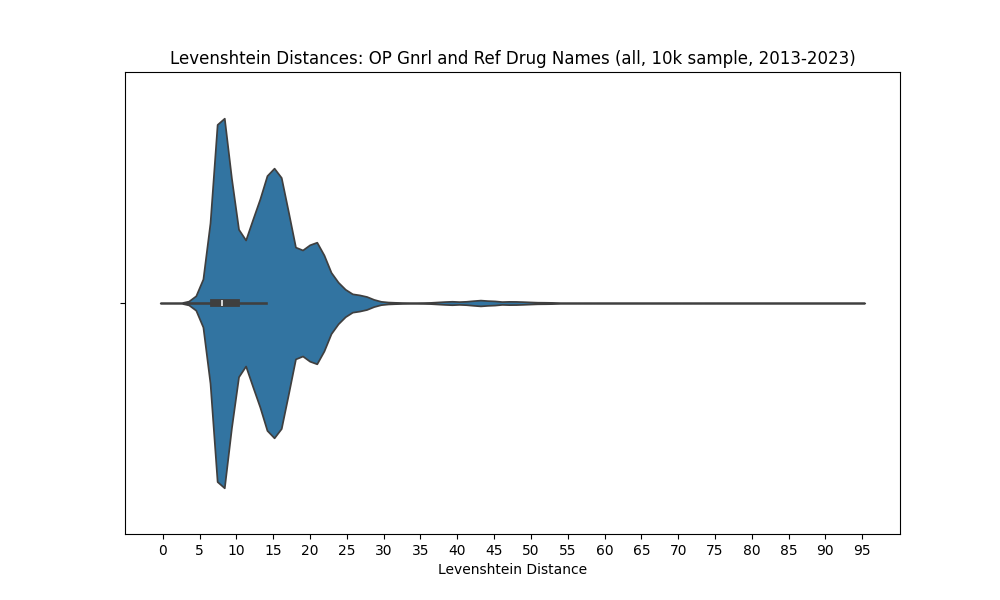
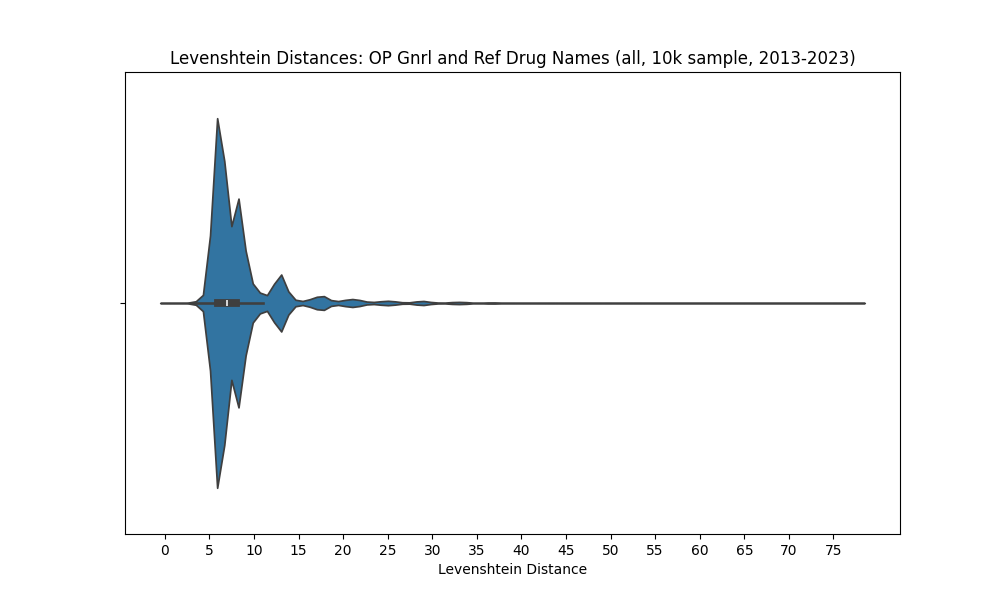
Updated eda with shorter list of ref drug names

Changed region(s): [[0.186, 0.18, 0.558, 0.81], [0.155, 0.9, 0.868, 0.93]]

diff --git a/src/data_collection/_op_eda.py b/src/data_collection/_op_eda.py
@@ -120,18 +120,18 @@ def get_ref_drug_data():
 def get_levenshtein_distances(ref_names: Set, op_names: Set) -> List:
     distances = []
 
-    # # Compute Levenshtein distance for every combination
-    # for word1 in tqdm(op_names, desc="Computing distances"):
-    #     distances.extend([(word1, word2, Levenshtein.distance(word1, word2)) for word2 in ref_names])
-
-    # compute and log distances around a threshold
+    # Compute Levenshtein distance for every combination
     for word1 in tqdm(op_names, desc="Computing distances"):
-        results = [
-            (word1, word2, dist)
-            for word2 in ref_names
-            if (dist := Levenshtein.distance(word1, word2)) < 7
-        ]
-        distances.extend(results)
+        distances.extend([Levenshtein.distance(word1, word2) for word2 in ref_names])
+
+    # # compute and log distances around a threshold
+    # for word1 in tqdm(op_names, desc="Computing distances"):
+    #     results = [
+    #         (word1, word2, dist)
+    #         for word2 in ref_names
+    #         if (dist := Levenshtein.distance(word1, word2)) < 7
+    #     ]
+    #     distances.extend(results)
 
     # # Now print the results
     # for word1, word2, dist in distances:
@@ -160,23 +160,24 @@ def runner(dataset):
     ref_drug_data = get_ref_drug_data()
     print(f"Summary statistics on Ref length of all drug names:\n{pd.Series(ref_drug_data['len_all_drug_names']).describe()}")
     print(f"Number of all Ref drug names: {len(ref_drug_data['all_drug_names'])}")
-    # plot_save_violin(
-    #     datalist=ref_drug_data["len_all_drug_names"],
-    #     fileout="data/Ref_Drug_Lengths_2013-2023_10k.png",
-    #     xlabel="Number Characters",
-    #     title="Lengths of All Reference Drug Names (2013-2023, 10k sample)",
-    #     xtick_step=5
-    # )
+    plot_save_violin(
+        datalist=ref_drug_data["len_all_drug_names"],
+        fileout="data/Ref_Drug_Lengths_2013-2023.png",
+        xlabel="Number Characters",
+        title="Lengths of All Reference Drug Names (2013-2023)",
+        xtick_step=5
+    )
 
     # uniques_distances = get_levenshtein_distances(ref_drug_data["unique_drug_names"], op_drug_data["unique_drug_names"])
     all_distances = get_levenshtein_distances(ref_drug_data["all_drug_names"], op_drug_data["all_drug_names"])
-    # plot_save_violin(
-    #     datalist=all_distances,
-    #     fileout="data/levenshtein_distances_2013-2023_Gnrl_10k.png",
-    #     xlabel="Levenshtein Distance",
-    #     title="Levenshtein Distances: OP Gnrl and Ref Drug Names (all, 10k sample, 2013-2023)",
-    #     xtick_step=5
-    # )
+    import ipdb; ipdb.set_trace()
+    plot_save_violin(
+        datalist=all_distances,
+        fileout="data/levenshtein_distances_2013-2023_Gnrl_10k.png",
+        xlabel="Levenshtein Distance",
+        title="Levenshtein Distances: OP Gnrl and Ref Drug Names (all, 10k sample, 2013-2023)",
+        xtick_step=5
+    )
 
     logger.info("Length of distances: %s", len(all_distances))
 
